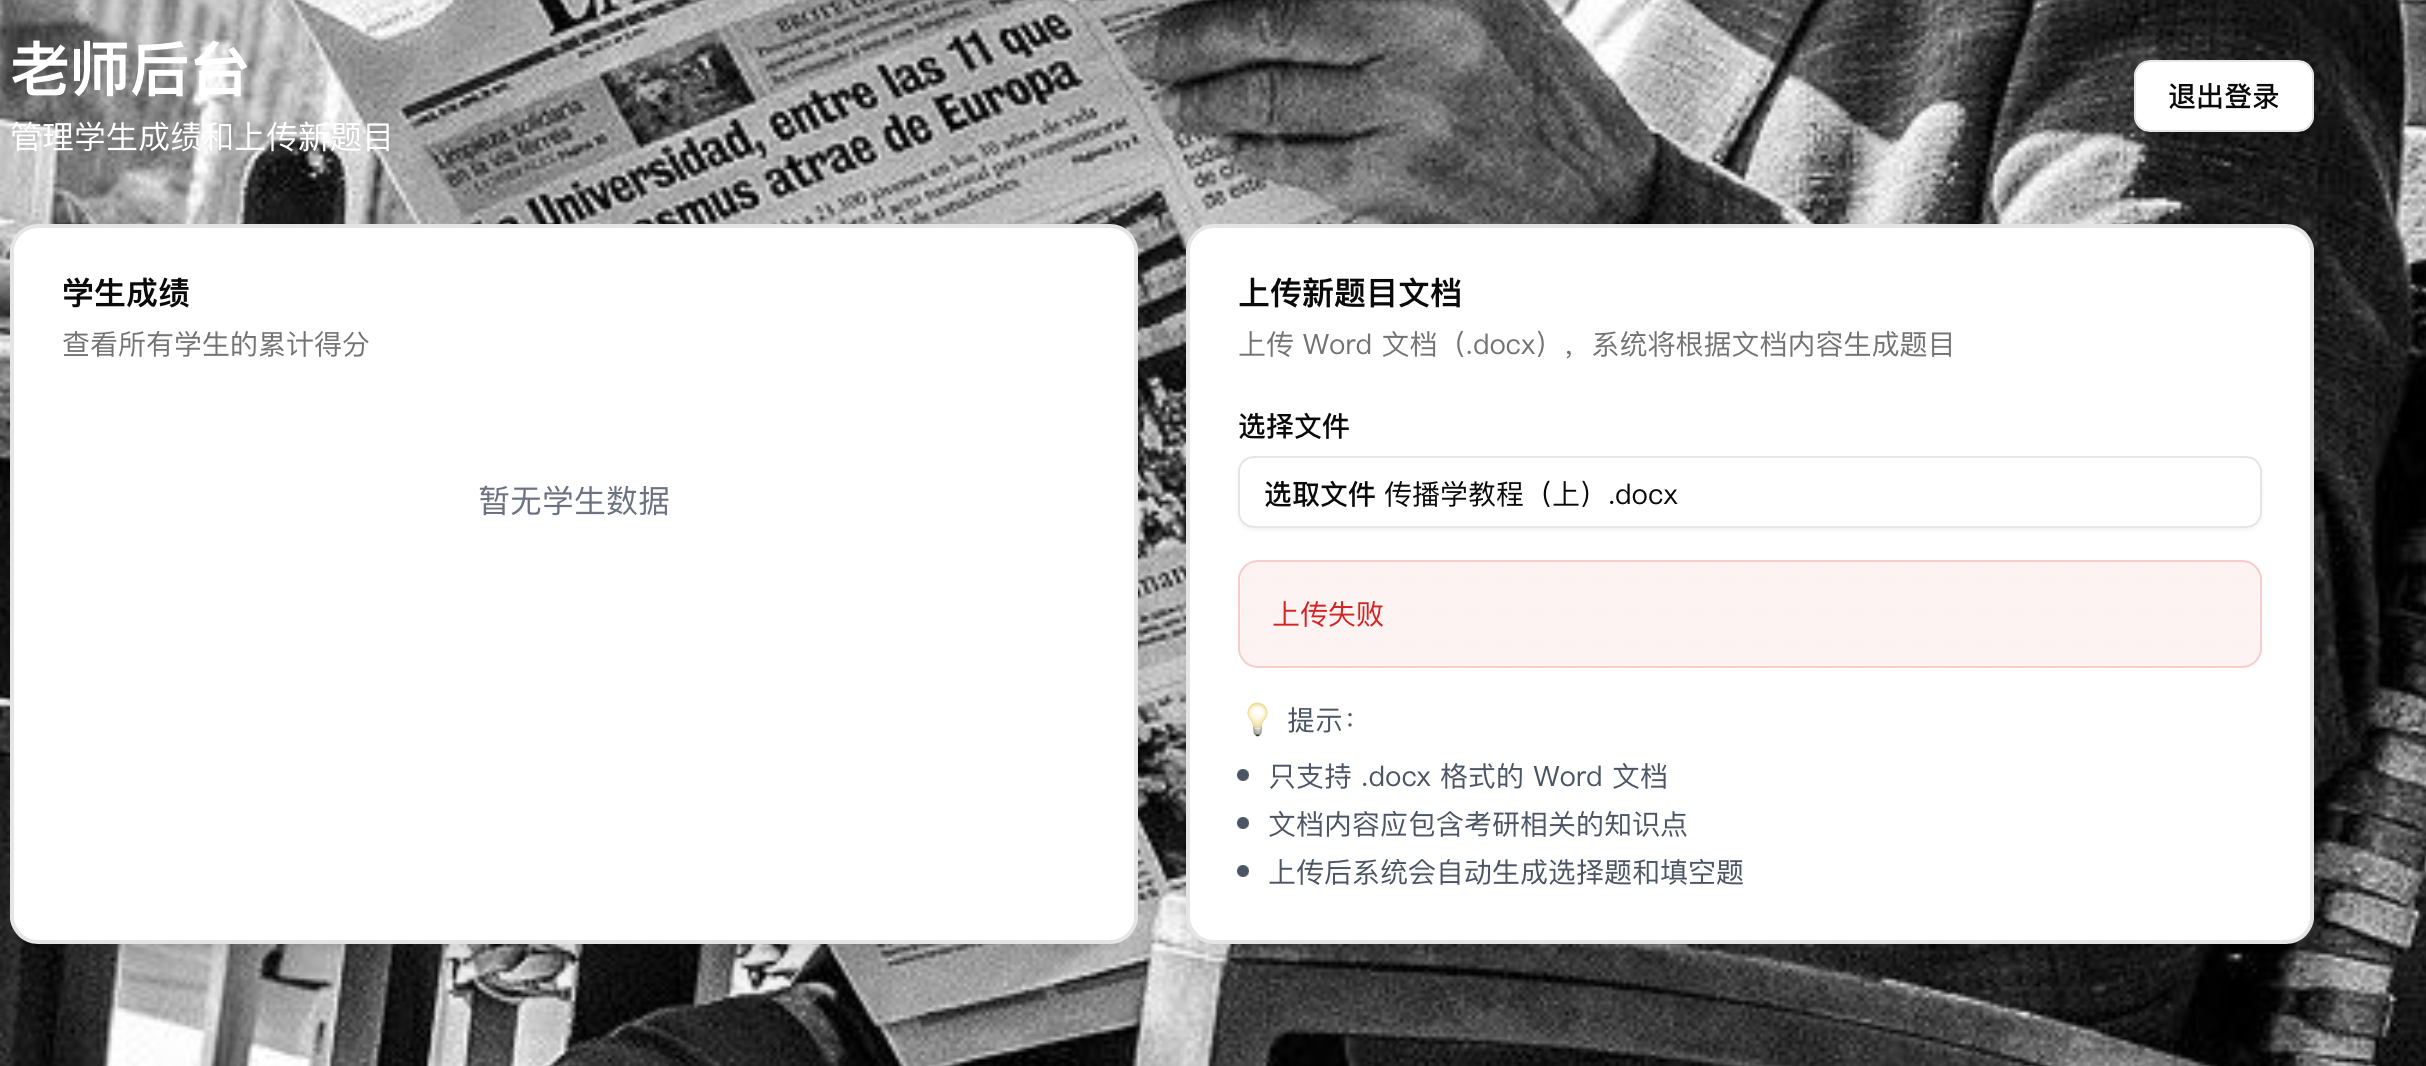
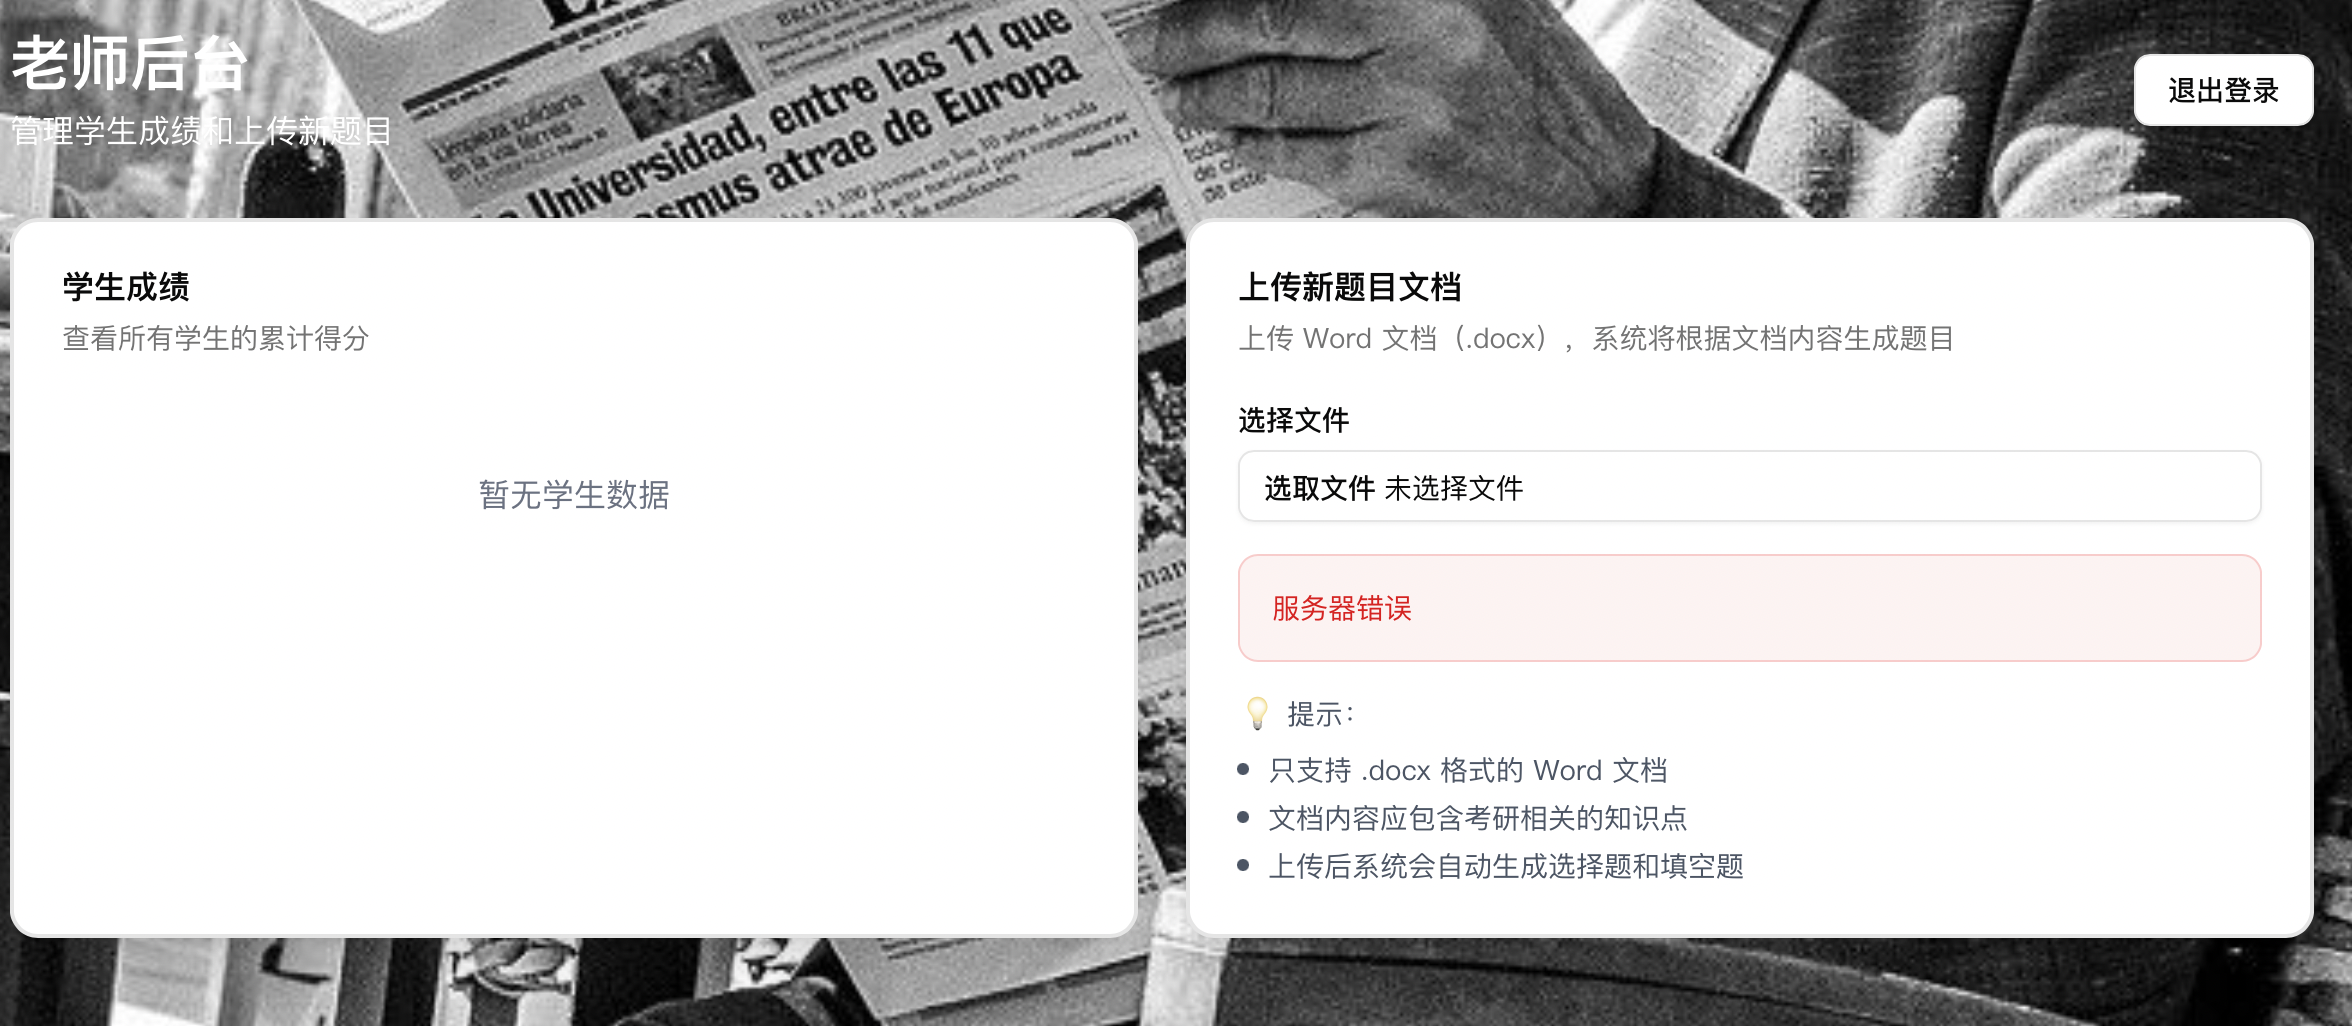
debug: 添加上传调试接口

diff --git a/src/app/api/teacher/upload-debug/route.ts b/src/app/api/teacher/upload-debug/route.ts
@@ -1,0 +1,81 @@
+import { NextRequest, NextResponse } from 'next/server';
+import { getSupabaseClient } from '@/storage/database/supabase-client';
+
+export async function POST(request: NextRequest) {
+  try {
+    const formData = await request.formData();
+    const file = formData.get('file') as File;
+
+    console.log('=== Upload Debug Start ===');
+    console.log('Received file:', file ? file.name : 'null');
+    console.log('File type:', file?.type);
+    console.log('File size:', file?.size);
+
+    if (!file) {
+      return NextResponse.json(
+        { error: '请选择文件' },
+        { status: 400 }
+      );
+    }
+
+    // 检查文件类型
+    if (!file.name.endsWith('.docx')) {
+      return NextResponse.json(
+        { error: '只支持 .docx 格式的 Word 文档' },
+        { status: 400 }
+      );
+    }
+
+    console.log('File type check passed');
+
+    // 获取文件内容
+    const bytes = await file.arrayBuffer();
+    const buffer = Buffer.from(bytes);
+    console.log('File buffer size:', buffer.length);
+
+    // 使用简单的文件名
+    const filename = `${Date.now()}_${file.name}`;
+    const filepath = `/opt/kaoyan-quiz-system/uploads/${filename}`;
+
+    console.log('Saving file to:', filepath);
+
+    // 写入文件
+    const fs = require('fs');
+    fs.writeFileSync(filepath, buffer);
+
+    console.log('File saved successfully');
+
+    // 保存到数据库
+    const client = getSupabaseClient();
+    console.log('Connecting to Supabase...');
+
+    const { error } = await client.from('documents').insert({
+      filename: file.name,
+      file_url: filepath,
+    });
+
+    if (error) {
+      console.error('Supabase error:', error);
+      return NextResponse.json(
+        { error: `数据库错误: ${error.message}` },
+        { status: 500 }
+      );
+    }
+
+    console.log('Database save successful');
+    console.log('=== Upload Debug End ===');
+
+    return NextResponse.json({
+      message: '文件上传成功',
+      filename: file.name,
+      filepath,
+    });
+  } catch (error: any) {
+    console.error('Upload error:', error);
+    console.error('Error stack:', error.stack);
+    return NextResponse.json(
+      { error: `上传失败: ${error.message}` },
+      { status: 500 }
+    );
+  }
+}
